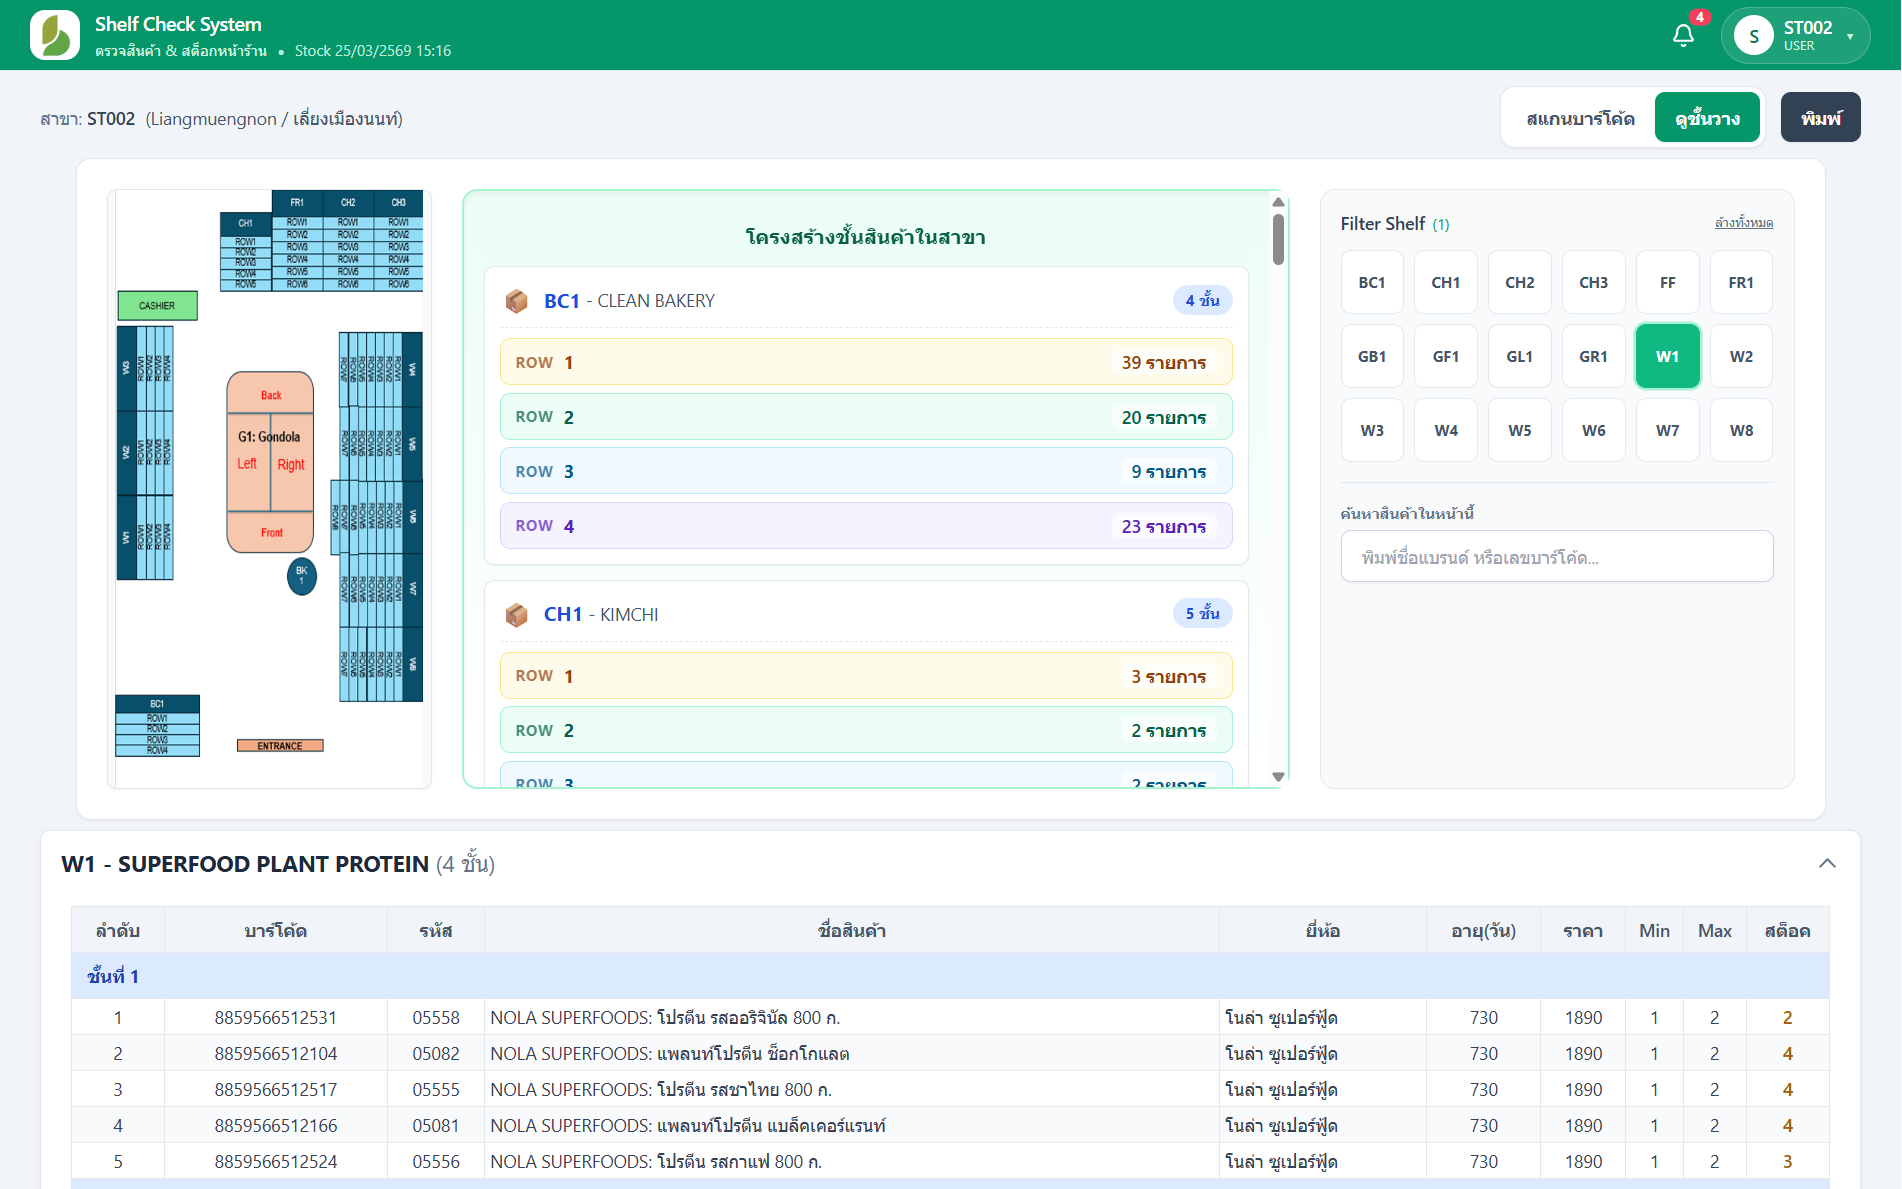
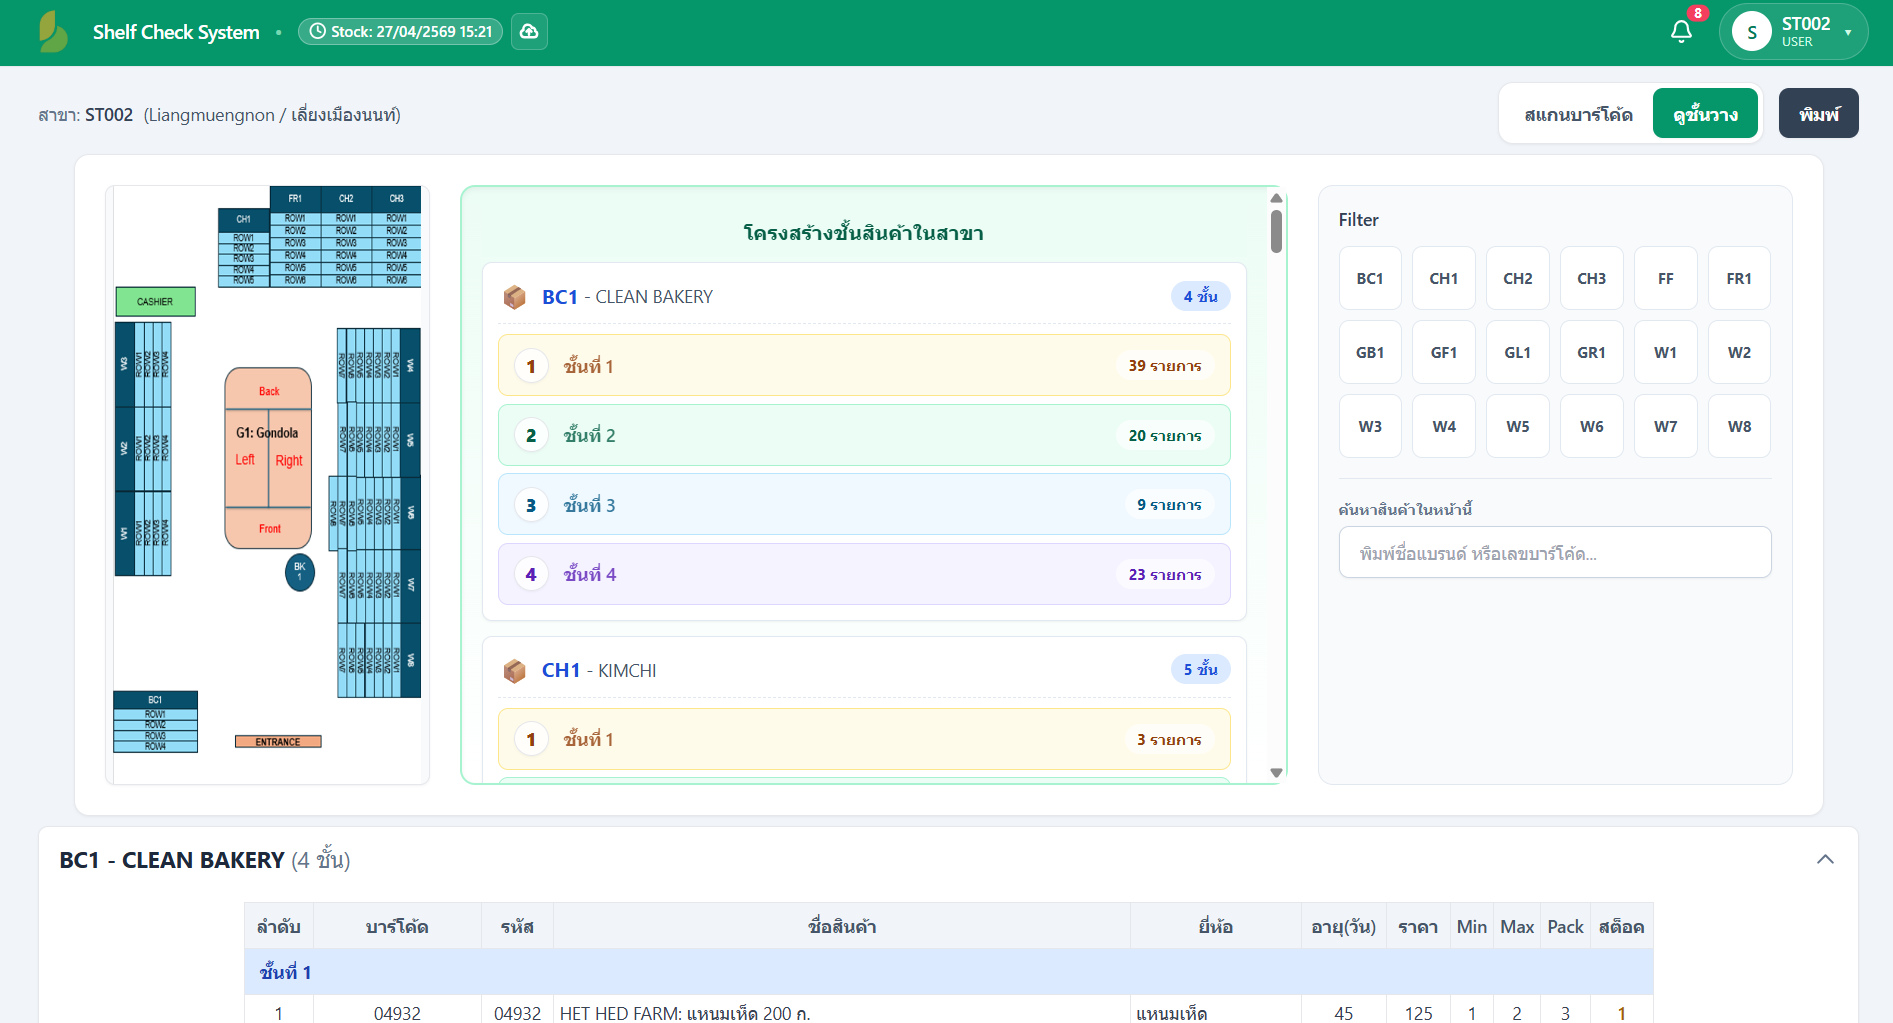
update to SCM

diff --git a/index.html b/index.html
@@ -42,8 +42,8 @@
         <h6>(Jimmy)</h6>
         <p class="hero-subtitle">Supply Chain Analyst & Full-Stack Solutions Developer</p>
         <p>
-          Empowering supply chain operations through custom Full-Stack software and AI-driven automation to maximize
-          efficiency.
+          ยกระดับประสิทธิภาพด้าน Supply Chain (Supply Chain Performance) ด้วยระบบเทคโนโลยีที่ออกแบบเฉพาะ (Customized
+          Systems) และระบบ Automation เพื่อสนับสนุนการตัดสินใจบนพื้นฐานข้อมูล (Data-Driven Decision Making)
         </p>
         <a class="btn" href="#contact">Contact Me</a>
       </div>
@@ -57,12 +57,12 @@
       <h2 class="section-title">About Me</h2>
       <div class="divider"></div>
       <p class="about-text">
-        A Computer Science graduate with a deep passion for Supply Chain Management (SCM). I am a self-driven
-        professional who bridges the gap between data logic and supply chain operations. By combining my love for
-        numbers with Full-Stack development and AI-driven automation, I create custom solutions that transform manual
-        tasks into efficient, high-accuracy workflows. I am a fast learner committed to long-term growth in the SCM
-        field, with a goal to leverage advanced analytics and technology to drive strategic business success.
-      </p>
+        จบการศึกษาด้าน Computer Science และมีความสนใจในด้าน Supply Chain Management (SCM)
+        ผมเป็นผู้ที่มีความกระตือรือร้น (Self-driven) และสามารถเชื่อมโยงระหว่าง Data Logic กับการดำเนินงานด้าน Supply
+        Chain ได้อย่างมีประสิทธิภาพ โดยผสานความถนัดด้านตัวเลขเข้ากับทักษะ Full-Stack Development และ Automation
+        เพื่อพัฒนาโซลูชันที่ช่วยเปลี่ยนงาน Manual ให้เป็นกระบวนการที่มีประสิทธิภาพและมีความแม่นยำสูง (High-Accuracy
+        Workflows) ผมเป็นผู้เรียนรู้เร็ว (Fast Learner) และมุ่งมั่นเติบโตในสายงาน SCM ในระยะยาว พร้อมตั้งเป้าใช้
+        Advanced Analytics และเทคโนโลยี</p>
     </section>
 
     <section class="section" id="skills">
@@ -87,8 +87,8 @@
         </div>
         <div class="skill">
           <h4>Tools & DevOps</h4>
-          <span>Cloud hosting (DigitalOcean)</span>, <span>Cloudflare</span>, <span>Excel VBA</span>, <span>Power
-            Query</span>,
+          <span>Cloud hosting (DigitalOcean)</span>, <span>Cloudflare</span>, <span>Excel VBA</span>,
+          <span>Microsoft Office</span>,
           <span>Git</span>, <span>Automation Scripts</span>
         </div>
       </div>
@@ -112,21 +112,20 @@
         <p class="exp-company">Bright Mind Retail Co., Ltd.</p>
         <ul class="about-text"
           style="padding-left: 20px; list-style-type: disc; display: flex; flex-direction: column; gap: 8px;">
-          <li><strong>Full-Stack Planogram (Web POG) System:</strong> Developed a custom web-based system using Node.js
-            and
-            React to manage shelf layouts across branches. Created an Admin Dashboard for detailed sales and stock
-            analysis, and a User Interface for store staff to track product locations.</li>
-          <li><strong>Full-Stack Planogram (Mobile POG) System:</strong> Developed a mobile-optimized version of the
-            mobile system for easy access</li>
-          <li><strong>AutoPO & Data Systems:</strong> Built an automated tool to collect fragmented data from multiple
-            sources into a PostgreSQL database. Integrated sales trends and write-off data into a calculation logic to
-            automate Purchase Orders (PO).</li>
-          <li><strong>Demand Planning & Reports:</strong> Analyzed performance data at the Branch, Brand, and SKU levels
-            to track specific sales trends and resolve critical stock issues (Out-of-Stock/Overstock).</li>
-          <li><strong>Marketing & IT Operations:</strong> Developed Python scripts to automatically generate over 50K
-            voucher codes for large-scale marketing campaigns and managed system deployment.</li>
-          <li><strong>Workplace Automation:</strong> Successfully transformed manual paperwork and repetitive office
-            tasks into automated digital workflows to reduce human error and manual processing time.</li>
+          <li><strong>Full-Stack Planogram (Web & Mobile):</strong> พัฒนาระบบจัดการ Layout สินค้าบนชั้นวาง (Shelf)
+            ทั่วทุกสาขา โดยมี Admin Dashboard สำหรับวิเคราะห์ยอดขาย เบิกออก และจำนวนสต็อก รวมถึง User Interface
+            ให้พนักงานหน้าร้านเช็คตำแหน่งสินค้าได้แบบ Real-time <br></li>
+          <li><strong>AutoPO & Data Systems:</strong>
+            บริหารและปรับปรุงระบบอัตโนมัติในการรวบรวมข้อมูลจากหลายแหล่งเข้าสู่ศูนย์กลาง (Centralized Database)
+            พร้อมวิเคราะห์แนวโน้มยอดขายและข้อมูลการเบิกสินค้า เพื่อสนับสนุนการคำนวณและออกใบสั่งซื้อ (Purchase Orders:
+            PO) ได้อย่างแม่นยำและเหมาะสม
+          </li>
+          <li><strong>Demand Planning & Reports:</strong> วิเคราะห์ข้อมูลยอดขายในระดับ Branch, Brand และ SKU
+            เพื่อติดตามแนวโน้มสินค้า และบริหารปัญหา Out-of-Stock และ Overstock ให้สต็อกอยู่ในระดับที่เหมาะสม</li>
+          <li><strong>Marketing & IT Operations:</strong> พัฒนา Script สำหรับสร้างรหัสบัตรกำนัล (Voucher Codes) มากกว่า
+            50,000 รายการ เพื่อรองรับแคมเปญการตลาดขนาดใหญ่ได้อย่างมีประสิทธิภาพ</li>
+          <li><strong>Workplace Automation:</strong> ออกแบบและพัฒนาระบบอัตโนมัติสำหรับงานเอกสารและกระบวนการที่ทำซ้ำ
+            (Repetitive Processes) เพื่อลด Human Error และเพิ่มประสิทธิภาพการดำเนินงาน (Operational Efficiency)</li>
         </ul>
       </div>
       <div class="work-grid" style="margin-top: 20px;">
@@ -169,7 +168,8 @@
       <h2 class="section-title">Projects</h2>
       <div class="divider"></div>
       <div class="project-item">
-        <h3 class="project-title">🌐 NoraStory: Dynamic Storytelling Platform (2026)</h3>
+        <h3 class="project-title">🌐 NoraStory: Dynamic Storytelling Platform (2026) - Digital Infrastructure + Data
+          Pipeline + Automation System (tech)</h3>
 
         <ul class="about-text"
           style="padding-left: 20px; list-style-type: disc; display: flex; flex-direction: column; gap: 8px;">
@@ -194,7 +194,8 @@
 
         <p class="project-desc" style="margin-top: 15px; margin-bottom: 20px;">
           <strong>Link:</strong> <a href="https://norastory.com" target="_blank"
-            style="color: var(--text); font-weight: 800; font-size: 15px; background: var(--chip); border: 1px solid var(--line); padding: 6px 12px; border-radius: 8px; text-decoration: none; display: inline-flex; align-items: center; gap: 6px; margin-left: 4px; transition: all 0.2s;">🔗 https://norastory.com</a>
+            style="color: var(--text); font-weight: 800; font-size: 15px; background: var(--chip); border: 1px solid var(--line); padding: 6px 12px; border-radius: 8px; text-decoration: none; display: inline-flex; align-items: center; gap: 6px; margin-left: 4px; transition: all 0.2s;">🔗
+            https://norastory.com</a>
         </p>
 
 
@@ -223,75 +224,95 @@
       </div>
 
       <div class="project-item">
-        <h3 class="project-title">🛍️ E-Commerce Web Application (2025)</h3>
+        <h3 class="project-title">🛍️ E-Commerce Web Application (2025) - DEMO</h3>
 
         <ul class="about-text"
           style="padding-left: 20px; list-style-type: disc; display: flex; flex-direction: column; gap: 8px;">
-          <li><strong>Project Overview:</strong> Developed a complete E-commerce system with features for both users
-            (shopping, cart) and admins (managing products and orders).</li>
-          <li><strong>Security & Authentication:</strong> Built a secure Login system using Token-based authentication
-            to protect user data and separate Admin/User roles.</li>
-          <li><strong>Architecture & Code Organization:</strong> Designed a "Feature-based" project structure to make
-            the code organized, easy to read, and easy to update in the future.</li>
-          <li><strong>State Management:</strong> Managed Global State with Zustand to handle shopping carts and user
-            sessions efficiently without slowing down the app.</li>
-          <li><strong>UI/UX Design:</strong> Created a Responsive Design using Tailwind CSS, ensuring the website works
-            perfectly on both mobile phones and desktops.</li>
+          <li><strong>Project Overview:</strong> Developed a full-stack E-commerce system supporting end-to-end
+            operations, including customer purchasing (shopping, cart) and admin management for products, orders, and
+            inventory-related processes</li>
+
+          <li><strong>Security & Authentication:</strong> Implemented secure Token-based Authentication with role
+            separation (Admin/User) to protect user data and ensure controlled system access</li>
+
+          <li><strong>Architecture & Code Organization:</strong> Designed a Feature-based architecture for scalable and
+            maintainable code, enabling easier future enhancements and system expansion</li>
+
+          <li><strong>State Management:</strong> Managed global state using Zustand to efficiently handle shopping
+            carts, user sessions, and real-time updates without impacting application performance</li>
+
+          <li><strong>UI/UX Design:</strong> Developed a responsive UI using Tailwind CSS to ensure seamless user
+            experience across mobile and desktop platforms</li>
+
+          <li><strong>Business & Supply Chain Perspective:</strong> มีความเข้าใจด้าน Database และระบบ E-commerce
+            ควบคู่กับมุมมองเชิงธุรกิจ สามารถมองภาพรวมของ End-to-End Process
+            และเชื่อมโยงข้อมูลเพื่อสนับสนุนการตัดสินใจด้าน Inventory, Order Management และ Supply Chain Operations แบบ
+            Data-Driven</li>
         </ul>
 
         <p class="project-desc" style="margin-top: 15px; margin-bottom: 20px;">
           <strong>Link:</strong> <a href="https://shop.ntwlabs.com" target="_blank"
-            style="color: var(--text); font-weight: 800; font-size: 15px; background: var(--chip); border: 1px solid var(--line); padding: 6px 12px; border-radius: 8px; text-decoration: none; display: inline-flex; align-items: center; gap: 6px; margin-left: 4px; transition: all 0.2s;">🔗 https://shop.ntwlabs.com</a>
+            style="color: var(--text); font-weight: 800; font-size: 15px; background: var(--chip); border: 1px solid var(--line); padding: 6px 12px; border-radius: 8px; text-decoration: none; display: inline-flex; align-items: center; gap: 6px; margin-left: 4px; transition: all 0.2s;">🔗
+            https://shop.ntwlabs.com</a>
         </p>
         <div class="project-tech">
           <span class="tag">React</span>
           <span class="tag">Node.js</span>
           <span class="tag">PostgreSQL</span>
         </div>
-      <div class="work-grid" style="margin-top: 20px;">
-        <div style="position: relative; width: 100%; aspect-ratio: 4/3; border-radius: 8px; overflow: hidden;">
-          <img class="work-thumb-img" src="images/ecommerce-dashboard.png" alt="E-Commerce Homepage"
-            oncontextmenu="return false;" draggable="false"
-            style="background: linear-gradient(135deg, #667eea 0%, #764ba2 100%);" />
-          <div
-            style="position: absolute; bottom: 0; left: 0; right: 0; background: rgba(0,0,0,0.7); color: white; padding: 8px; text-align: center; font-size: 12px;">
-            Dashboard
+        <div class="work-grid" style="margin-top: 20px;">
+          <div style="position: relative; width: 100%; aspect-ratio: 4/3; border-radius: 8px; overflow: hidden;">
+            <img class="work-thumb-img" src="images/ecommerce-dashboard.png" alt="E-Commerce Homepage"
+              oncontextmenu="return false;" draggable="false"
+              style="background: linear-gradient(135deg, #667eea 0%, #764ba2 100%);" />
+            <div
+              style="position: absolute; bottom: 0; left: 0; right: 0; background: rgba(0,0,0,0.7); color: white; padding: 8px; text-align: center; font-size: 12px;">
+              Dashboard
+            </div>
+          </div>
+          <div style="position: relative; width: 100%; aspect-ratio: 4/3; border-radius: 8px; overflow: hidden;">
+            <img class="work-thumb-img" src="images/ecommerce-home.png" alt="E-Commerce Home"
+              oncontextmenu="return false;" draggable="false"
+              style="background: linear-gradient(135deg, #f093fb 0%, #f5576c 100%);" />
+            <div
+              style="position: absolute; bottom: 0; left: 0; right: 0; background: rgba(0,0,0,0.7); color: white; padding: 8px; text-align: center; font-size: 12px;">
+              Home
+            </div>
+          </div>
+          <div style="position: relative; width: 100%; aspect-ratio: 4/3; border-radius: 8px; overflow: hidden;">
+            <img class="work-thumb-img" src="images/ecommerce-shop.png" alt="E-Commerce Shopping"
+              oncontextmenu="return false;" draggable="false"
+              style="background: linear-gradient(135deg, #f093fb 0%, #f5576c 100%);" />
+            <div
+              style="position: absolute; bottom: 0; left: 0; right: 0; background: rgba(0,0,0,0.7); color: white; padding: 8px; text-align: center; font-size: 12px;">
+              Shopping
+            </div>
           </div>
         </div>
-        <div style="position: relative; width: 100%; aspect-ratio: 4/3; border-radius: 8px; overflow: hidden;">
-          <img class="work-thumb-img" src="images/ecommerce-home.png" alt="E-Commerce Home"
-            oncontextmenu="return false;" draggable="false"
-            style="background: linear-gradient(135deg, #f093fb 0%, #f5576c 100%);" />
-          <div
-            style="position: absolute; bottom: 0; left: 0; right: 0; background: rgba(0,0,0,0.7); color: white; padding: 8px; text-align: center; font-size: 12px;">
-            Home
-          </div>
-        </div>
-        <div style="position: relative; width: 100%; aspect-ratio: 4/3; border-radius: 8px; overflow: hidden;">
-          <img class="work-thumb-img" src="images/ecommerce-shop.png" alt="E-Commerce Shopping"
-            oncontextmenu="return false;" draggable="false"
-            style="background: linear-gradient(135deg, #f093fb 0%, #f5576c 100%);" />
-          <div
-            style="position: absolute; bottom: 0; left: 0; right: 0; background: rgba(0,0,0,0.7); color: white; padding: 8px; text-align: center; font-size: 12px;">
-            Shopping
-          </div>
-        </div>
-      </div>
       </div>
 
       <div class="project-item">
         <h3 class="project-title">🌫️ Dust Prediction Mobile App (2024)</h3>
+
         <ul class="about-text"
           style="padding-left: 20px; list-style-type: disc; display: flex; flex-direction: column; gap: 8px;">
-          <li><strong>API Integration:</strong> Integrated Open API from Air4Thai to fetch and display real-time air
-            quality data (PM2.5) for users.</li>
-          <li><strong>Machine Learning Models:</strong> Developed a model to predict dust levels using Deep Learning
-            (RNN, LSTM) and Machine Learning (Random Forest).</li>
-          <li><strong>Backend API:</strong> Created web service API to retrieve data and store it in a database.</li>
-          <li><strong>Mobile Interface:</strong> Designed and developed a mobile application for Android with custom
-            UX/UI design.</li>
-          <li><strong>Real-time Data Integration:</strong> Implemented features to display real-time dust level data
-            from the database on the mobile app.</li>
+
+          <li><strong>API Integration:</strong> เชื่อมต่อข้อมูลจาก Open API (Air4Thai) เพื่อดึงข้อมูลคุณภาพอากาศ (PM2.5)
+            แบบ Real-time สำหรับการแสดงผลและวิเคราะห์ข้อมูล</li>
+
+          <li><strong>Machine Learning & Forecasting:</strong> พัฒนาโมเดลคาดการณ์ (Prediction Model) โดยใช้ Deep
+            Learning (RNN, LSTM) และ Machine Learning (Random Forest) เพื่อวิเคราะห์แนวโน้มและพยากรณ์ระดับฝุ่นล่วงหน้า
+            (Forecasting)</li>
+
+          <li><strong>Backend & Data Management:</strong> พัฒนา Web Service API สำหรับจัดเก็บและจัดการข้อมูลในฐานข้อมูล
+            (Database) เพื่อรองรับการใช้งานข้อมูลในระบบอย่างมีประสิทธิภาพ</li>
+
+          <li><strong>Mobile Application (Android):</strong> ออกแบบและพัฒนา Mobile Application พร้อม UX/UI ที่ใช้งานง่าย
+            เพื่อแสดงผลข้อมูลและผลการคาดการณ์ให้ผู้ใช้งานเข้าใจได้อย่างชัดเจน</li>
+
+          <li><strong>Real-time Data Processing:</strong> พัฒนาระบบแสดงผลข้อมูลแบบ Real-time จากฐานข้อมูล
+            เพื่อให้ผู้ใช้งานสามารถติดตามสถานการณ์ได้อย่างต่อเนื่อง</li>
+
         </ul>
         <!-- <p class="project-desc" style="margin-top: 5px;">
           <strong>Link:</strong> <a href="https://com" target="_blank"
@@ -340,15 +361,26 @@
     <section class="section" id="soft-skills">
       <h2 class="section-title">Soft Skills</h2>
       <div class="divider"></div>
+
       <ul class="about-text"
         style="padding-left: 20px; list-style-type: disc; display: flex; flex-direction: column; gap: 8px;">
-        <li><strong>Fast Work with AI Tools:</strong> Experienced in using modern AI-powered IDEs to build software and
-          solve technical problems much faster.</li>
-        <li><strong>Business Problem Solving:</strong> Good at changing slow, manual office tasks into fast digital
-          systems to help the team work better.</li>
-        <li><strong>Team Collaboration:</strong> Able to explain complex technical ideas to non-tech team members in
-          simple ways.</li>
-        <li><strong>Fast Learner:</strong> Quickly adapted to company operations and passed probation.</li>
+
+        <li><strong>AI-Enhanced Productivity:</strong> ใช้เครื่องมือ AI และ Modern Development Tools
+          เพื่อเพิ่มความเร็วในการทำงาน (Productivity) และแก้ไขปัญหาเชิงเทคนิคได้อย่างมีประสิทธิภาพ</li>
+
+        <li><strong>Business & Process Improvement:</strong> มีทักษะในการวิเคราะห์และปรับปรุงกระบวนการทำงาน (Process
+          Improvement) โดยเปลี่ยนงาน Manual ให้เป็นระบบอัตโนมัติ (Automation) เพื่อลด Human Error
+          และเพิ่มประสิทธิภาพของทีม</li>
+
+        <li><strong>Cross-functional Collaboration:</strong> สามารถทำงานร่วมกับทีมที่หลากหลาย (เช่น Business, Operation,
+          IT) และอธิบายเรื่องเทคนิคให้เข้าใจง่าย เพื่อให้การทำงานสอดคล้องกัน</li>
+
+        <li><strong>Fast Learner & Adaptability:</strong> เรียนรู้งานใหม่ได้รวดเร็ว
+          ปรับตัวเข้ากับสภาพแวดล้อมการทำงานได้ดี และสามารถส่งมอบงานได้ตามเป้าหมาย (On-time Delivery)</li>
+
+        <li><strong>Data-Driven Mindset:</strong> มีแนวคิดในการใช้ข้อมูล (Data-Driven)
+          เพื่อวิเคราะห์ปัญหาและสนับสนุนการตัดสินใจในงานด้านธุรกิจและ Supply Chain</li>
+
       </ul>
     </section>
 
@@ -357,7 +389,7 @@
       <div class="divider"></div>
       <div class="contact-grid">
         <p class="contact-note">
-        
+
         </p>
         <div class="contact-card">
           <div class="contact-item">